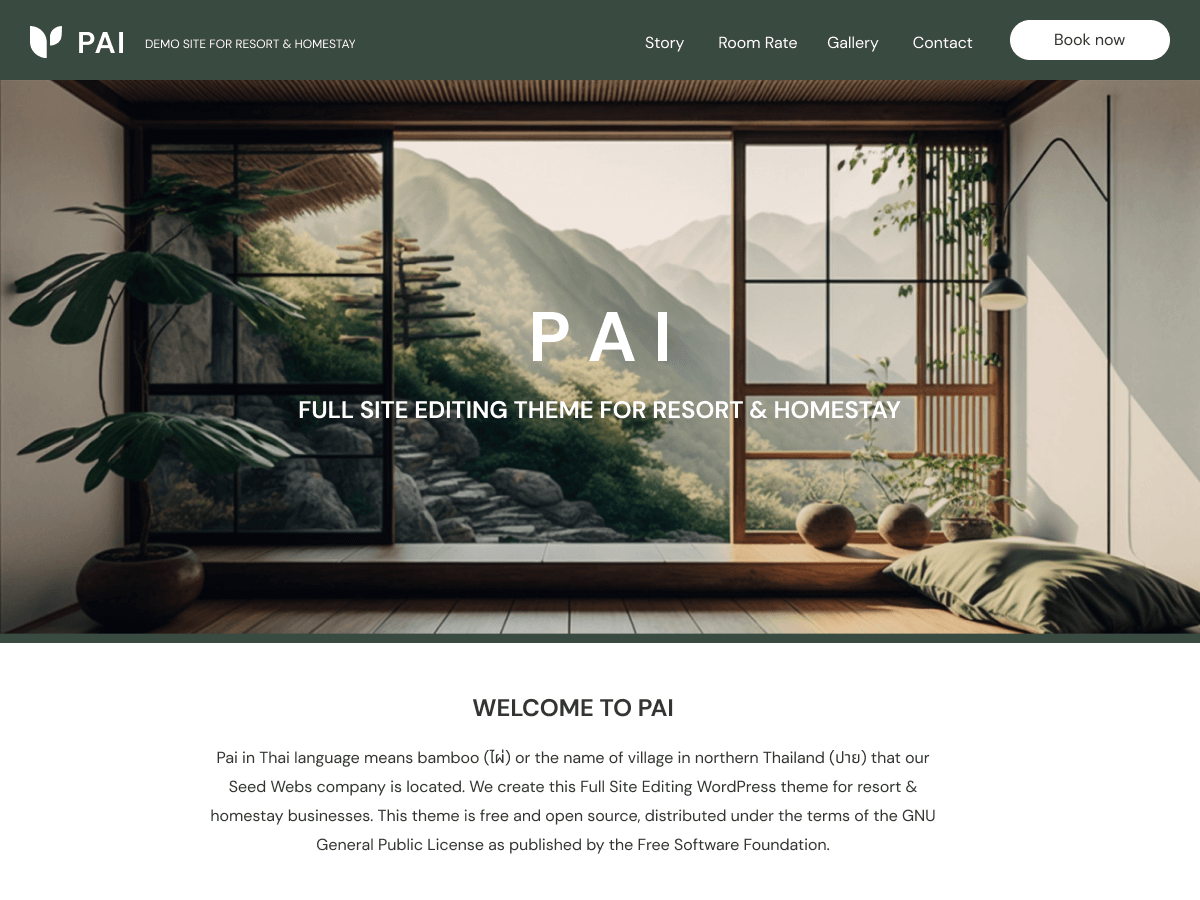
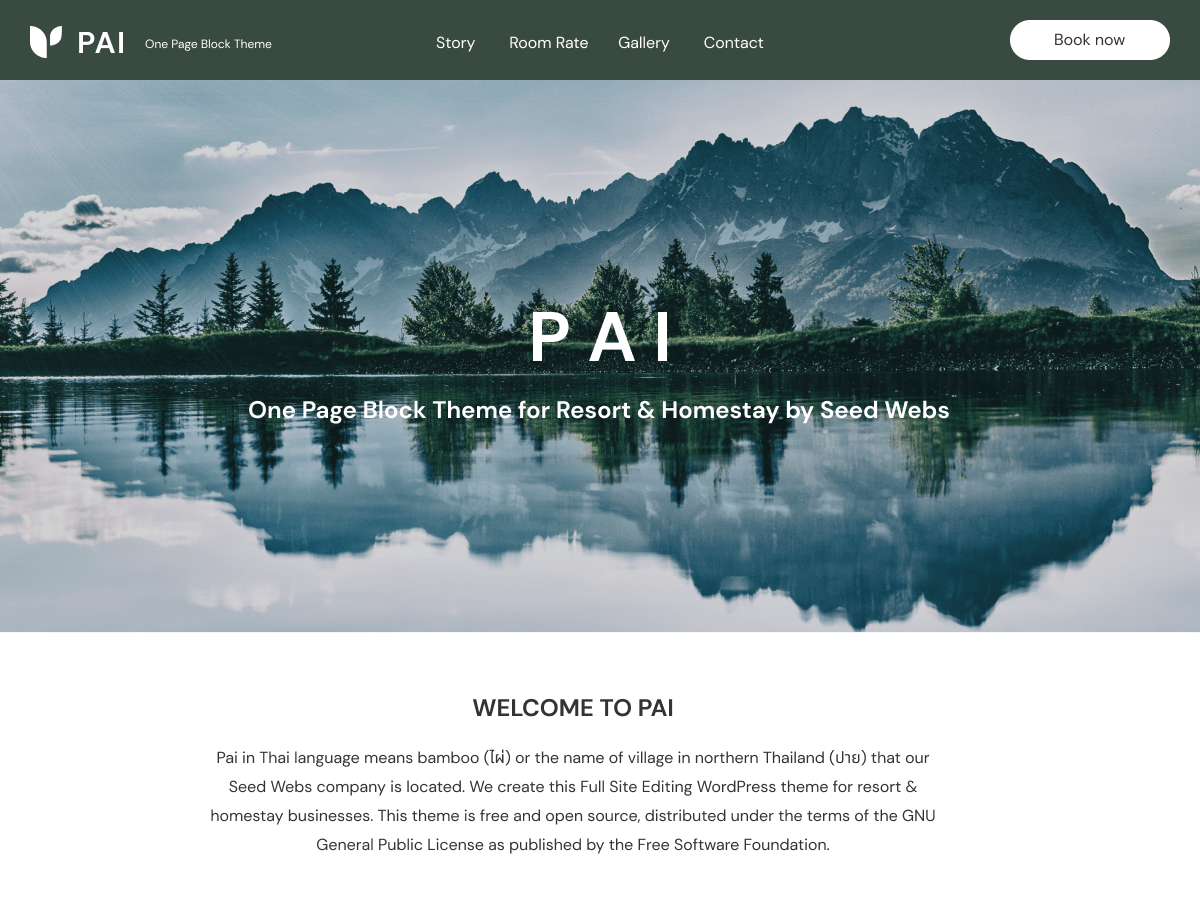
Replace Midjourney images with CC0 images

diff --git a/style.css b/style.css
@@ -7,7 +7,7 @@ Description: One Page Block Theme
 Requires at least: 5.8
 Tested up to: 6.2
 Requires PHP: 5.7
-Version: 0.4.0
+Version: 0.5.0
 License: GNU General Public License v2 or later
 License URI: http://www.gnu.org/licenses/gpl-2.0.html
 Template: 
